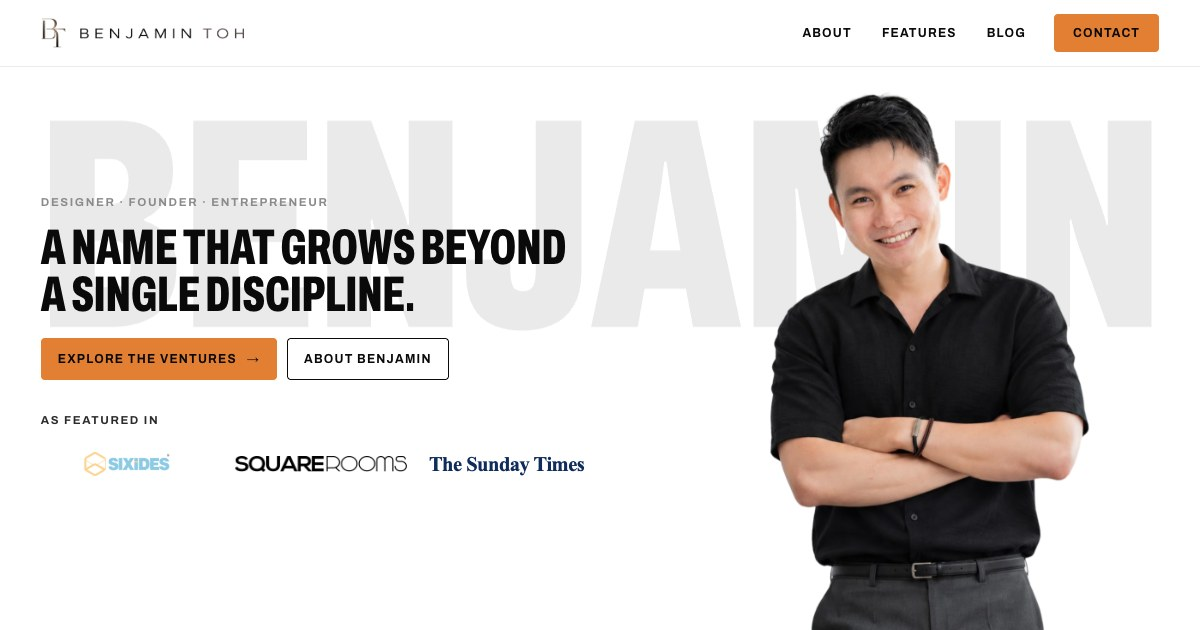
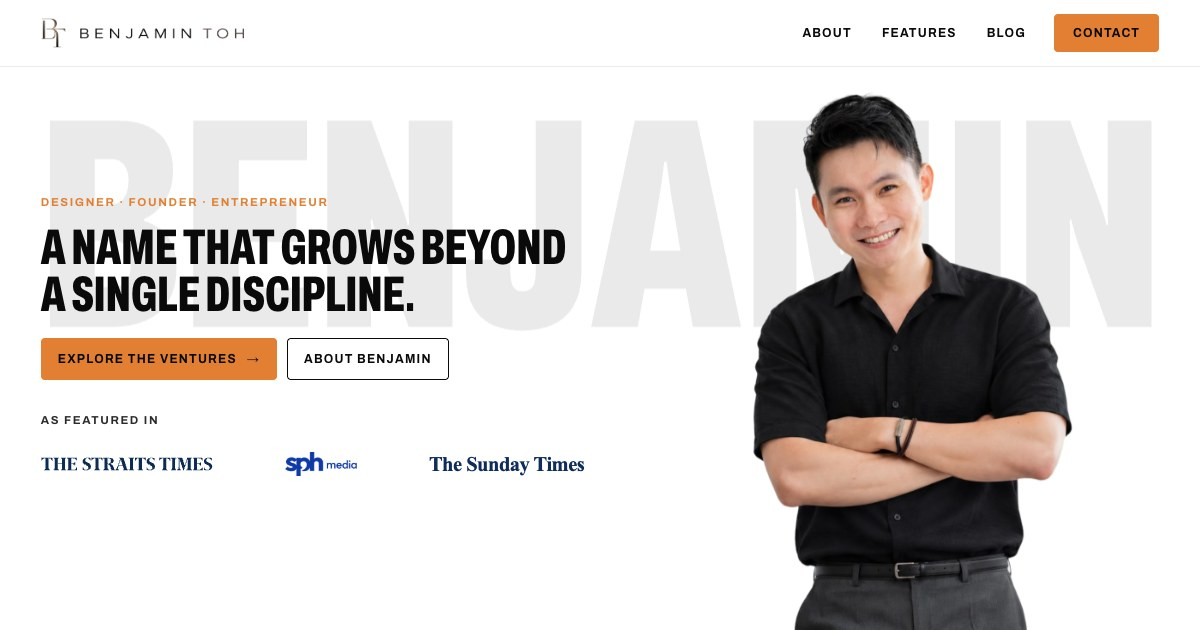
Hero: Ben centred in the space beside the words; Meet Ben photo builds up in tiles, then its frame draws in
- Desktop hero: photo centred between the end of the words and the right edge
- Meet Ben: photo appears as 4x5 tiles from the top left, then the black line draws around it (runs once on scroll)
- Link cover retaken from the new hero, version bumped to ?v=3 so WhatsApp refetches

Changed region(s): [[0.6167, 0.1508, 0.925, 1.0], [0.0308, 0.7238, 0.3392, 0.754], [0.0308, 0.3016, 0.2775, 0.3317]]

diff --git a/v2.css b/v2.css
@@ -949,3 +949,49 @@ a.b--black,button.b--black,.b--black{background:var(--m2d);border-color:var(--m2
 
 /* ventures intro: no single word left alone on the last line */
 .ven__note{text-wrap:pretty}
+
+/* hero (user, 2026-11-20): Ben centred in the white space to the right of the words.
+   The words and logos end about 610px from the left, so his centre sits halfway between there and the right edge.
+   47.7% is where his body's centre falls inside the cut-out (ben-stand.png). */
+@media (min-width:901px){
+  .hero2__ben,.ready .hero2__ben{left:calc(50% + 305px);right:auto;transform:translate(-47.7%,var(--py,0px))}
+}
+
+/* Meet Ben photo (user, 2026-11-20): the photo comes out first (wipes up from the bottom while settling from a slight zoom),
+   then the black line draws itself around it: top, right side, bottom, left side. Runs once when the section scrolls in. */
+.abt__pic[data-rv]{opacity:1;transform:none;transition:none}
+.abt__pic[data-rv] .abt__photo{clip-path:inset(100% 0 0 0);transition:clip-path 1.15s cubic-bezier(.7,0,.2,1)}
+.abt__pic[data-rv] .abt__photo img{transform:scale(1.18);transition:transform 1.6s cubic-bezier(.2,.7,.2,1)}
+.abt__pic[data-rv].in .abt__photo{clip-path:inset(0 0 0 0)}
+.abt__pic[data-rv].in .abt__photo img{transform:none}
+.abt__pic[data-rv].in .abt__photo:hover img{transform:scale(1.03);transition-duration:1.2s}
+.abt__pic[data-rv] .abt__frame{border:0}
+.abt__pic[data-rv] .abt__frame::before,.abt__pic[data-rv] .abt__frame::after{content:"";position:absolute;box-sizing:border-box;width:0;height:0;border:0 solid transparent}
+.abt__pic[data-rv] .abt__frame::before{left:0;top:0;border-top-width:1.5px;border-right-width:1.5px}
+.abt__pic[data-rv] .abt__frame::after{right:0;bottom:0;border-bottom-width:1.5px;border-left-width:1.5px}
+.abt__pic[data-rv].in .abt__frame::before{width:100%;height:100%;border-color:#0a0a0a;
+  transition:width .38s linear 1.0s,height .5s cubic-bezier(.4,0,.2,1) 1.38s,border-color 0s 1.0s}
+.abt__pic[data-rv].in .abt__frame::after{width:100%;height:100%;border-color:#0a0a0a;
+  transition:width .38s linear 1.88s,height .5s cubic-bezier(.4,0,.2,1) 2.26s,border-color 0s 1.88s}
+@media (prefers-reduced-motion:reduce){
+  .abt__pic[data-rv] .abt__photo{clip-path:none;transition:none}.abt__pic[data-rv] .abt__photo img{transform:none;transition:none}
+  .abt__pic[data-rv] .abt__frame::before,.abt__pic[data-rv] .abt__frame::after{width:100%;height:100%;border-color:#0a0a0a;transition:none}
+}
+
+/* Meet Ben photo, take 2 (user, 2026-11-20, matching their reference reel): the photo builds up from square tiles that pop in
+   one after another, starting at the top left and running diagonally to the bottom right. The black line then draws in (above).
+   Tiles are added by v2.js; without JS the photo simply shows. */
+.abt__pic.has-tiles[data-rv] .abt__photo{clip-path:none;transition:none}
+.abt__pic.has-tiles[data-rv] .abt__photo>img{transform:none;opacity:0;transition:none}
+.abt__pic.has-tiles.tiles-done .abt__photo>img{opacity:1}
+.abt__pic.has-tiles.tiles-done .abt__photo:hover>img{transform:scale(1.03);transition:transform 1.2s var(--ease)}
+.abt__tiles{position:absolute;inset:0;z-index:1;display:grid;grid-template-columns:repeat(4,1fr);grid-template-rows:repeat(5,1fr);pointer-events:none}
+.abt__tiles i{position:relative;overflow:hidden;transform:scale(.3);opacity:0;
+  transition:transform .55s cubic-bezier(.2,.75,.25,1) var(--d),opacity .3s ease var(--d)}
+.abt__pic .abt__tiles i img{position:absolute;aspect-ratio:auto;transform:none;opacity:1;transition:none;left:var(--x);top:var(--y);width:400%;height:500%;max-width:none;object-fit:cover}
+.tiles-go .abt__tiles i{transform:none;opacity:1}
+.tiles-done .abt__tiles{display:none}
+/* no grey box before the tiles arrive, and the black line starts as soon as the photo is complete */
+.abt__pic.has-tiles .abt__photo{background:transparent}
+.abt__pic.has-tiles[data-rv].in .abt__frame::before{transition:width .38s linear .6s,height .5s cubic-bezier(.4,0,.2,1) .98s,border-color 0s .6s}
+.abt__pic.has-tiles[data-rv].in .abt__frame::after{transition:width .38s linear 1.48s,height .5s cubic-bezier(.4,0,.2,1) 1.86s,border-color 0s 1.48s}

diff --git a/blog.html b/blog.html
@@ -11,11 +11,11 @@
 <meta property="og:site_name" content="Benjamin Toh">
 <meta property="og:title" content="Blog: renovation, explained honestly">
 <meta property="og:description" content="Articles and project stories by Benjamin Toh on hiring a designer or contractor, custom carpentry, small homes and completed M2D homes in Singapore.">
-<meta property="og:image" content="https://www.benjamintoh.com/assets/og-cover.jpg?v=2">
+<meta property="og:image" content="https://www.benjamintoh.com/assets/og-cover.jpg?v=3">
 <meta property="og:image:width" content="1200">
 <meta property="og:image:height" content="630">
 <meta name="twitter:card" content="summary_large_image">
-<meta name="twitter:image" content="https://www.benjamintoh.com/assets/og-cover.jpg?v=2">
+<meta name="twitter:image" content="https://www.benjamintoh.com/assets/og-cover.jpg?v=3">
 <meta property="og:type" content="website">
 <script type="application/ld+json">{"@context": "https://schema.org", "@type": "Blog", "name": "Benjamin Toh: Blog", "description": "Articles and project stories by Benjamin Toh on hiring a designer or contractor, custom carpentry, small homes and completed M2D homes in Singapore.", "inLanguage": "en-SG", "author": {"@type": "Person", "name": "Benjamin Toh"}}</script>
 <link rel="icon" href="assets/favicon.png">

diff --git a/v2.js b/v2.js
@@ -385,3 +385,22 @@
     c.addEventListener('mouseleave',()=>v.pause());
   });
 })();
+
+/* ---------- Meet Ben photo: builds up from tiles, top left first (user, 2026-11-20) ---------- */
+(function(){
+  const pic=document.querySelector('.abt__pic'), fig=pic&&pic.querySelector('.abt__photo'), img=fig&&fig.querySelector('img');
+  if(!img||matchMedia('(prefers-reduced-motion: reduce)').matches) return;
+  const C=4, R=5, grid=document.createElement('div');
+  grid.className='abt__tiles'; grid.setAttribute('aria-hidden','true');
+  for(let r=0;r<R;r++) for(let c=0;c<C;c++){
+    const t=document.createElement('i'), p=document.createElement('img');
+    p.alt=''; p.src=img.currentSrc||img.src;
+    t.style.setProperty('--d',((r+c)*0.075).toFixed(3)+'s');
+    p.style.setProperty('--x',(-c*100)+'%'); p.style.setProperty('--y',(-r*100)+'%');
+    t.appendChild(p); grid.appendChild(t);
+  }
+  fig.appendChild(grid); pic.classList.add('has-tiles');
+  const go=()=>{ requestAnimationFrame(()=>pic.classList.add('tiles-go')); setTimeout(()=>pic.classList.add('tiles-done'),1500); };
+  if(pic.classList.contains('in')) go();
+  else new MutationObserver((m,o)=>{ if(pic.classList.contains('in')){ o.disconnect(); go(); } }).observe(pic,{attributes:true,attributeFilter:['class']});
+})();

diff --git a/index.html b/index.html
@@ -11,12 +11,12 @@
 <meta property="og:title" content="Benjamin Toh | Designer, Founder, Entrepreneur">
 <meta property="og:description" content="Benjamin Toh, interior designer, founder of M2D Interior Design and second-generation carpenter in Singapore.">
 <meta property="og:url" content="https://www.benjamintoh.com/">
-<meta property="og:image" content="https://www.benjamintoh.com/assets/og-cover.jpg?v=2">
+<meta property="og:image" content="https://www.benjamintoh.com/assets/og-cover.jpg?v=3">
 <meta property="og:image:width" content="1200">
 <meta property="og:image:height" content="630">
 <meta property="og:image:alt" content="Benjamin Toh, designer, founder and entrepreneur">
 <meta name="twitter:card" content="summary_large_image">
-<meta name="twitter:image" content="https://www.benjamintoh.com/assets/og-cover.jpg?v=2">
+<meta name="twitter:image" content="https://www.benjamintoh.com/assets/og-cover.jpg?v=3">
 <link rel="icon" href="assets/favicon.png">
 <link rel="preconnect" href="https://fonts.googleapis.com">
 <link rel="preconnect" href="https://fonts.gstatic.com" crossorigin>

diff --git a/about.html b/about.html
@@ -11,12 +11,12 @@
 <meta property="og:title" content="About | Benjamin Toh">
 <meta property="og:description" content="About Benjamin Toh: interior designer, founder of M2D Interior Design and second-generation carpenter in Singapore.">
 <meta property="og:url" content="https://www.benjamintoh.com/about">
-<meta property="og:image" content="https://www.benjamintoh.com/assets/og-cover.jpg?v=2">
+<meta property="og:image" content="https://www.benjamintoh.com/assets/og-cover.jpg?v=3">
 <meta property="og:image:width" content="1200">
 <meta property="og:image:height" content="630">
 <meta property="og:image:alt" content="Benjamin Toh, designer, founder and entrepreneur">
 <meta name="twitter:card" content="summary_large_image">
-<meta name="twitter:image" content="https://www.benjamintoh.com/assets/og-cover.jpg?v=2">
+<meta name="twitter:image" content="https://www.benjamintoh.com/assets/og-cover.jpg?v=3">
 <link rel="icon" href="assets/favicon.png">
 <link rel="preconnect" href="https://fonts.googleapis.com">
 <link rel="preconnect" href="https://fonts.gstatic.com" crossorigin>

diff --git a/features.html b/features.html
@@ -11,12 +11,12 @@
 <meta property="og:title" content="Features | Benjamin Toh">
 <meta property="og:description" content="Media features and awards: Benjamin Toh in print, on air and on screen.">
 <meta property="og:url" content="https://www.benjamintoh.com/features">
-<meta property="og:image" content="https://www.benjamintoh.com/assets/og-cover.jpg?v=2">
+<meta property="og:image" content="https://www.benjamintoh.com/assets/og-cover.jpg?v=3">
 <meta property="og:image:width" content="1200">
 <meta property="og:image:height" content="630">
 <meta property="og:image:alt" content="Benjamin Toh, designer, founder and entrepreneur">
 <meta name="twitter:card" content="summary_large_image">
-<meta name="twitter:image" content="https://www.benjamintoh.com/assets/og-cover.jpg?v=2">
+<meta name="twitter:image" content="https://www.benjamintoh.com/assets/og-cover.jpg?v=3">
 <link rel="icon" href="assets/favicon.png">
 <link rel="preconnect" href="https://fonts.googleapis.com">
 <link rel="preconnect" href="https://fonts.gstatic.com" crossorigin>

diff --git a/contact.html b/contact.html
@@ -11,12 +11,12 @@
 <meta property="og:title" content="Contact | Benjamin Toh">
 <meta property="og:description" content="Contact Benjamin Toh: email, social, office address and a message form.">
 <meta property="og:url" content="https://www.benjamintoh.com/contact">
-<meta property="og:image" content="https://www.benjamintoh.com/assets/og-cover.jpg?v=2">
+<meta property="og:image" content="https://www.benjamintoh.com/assets/og-cover.jpg?v=3">
 <meta property="og:image:width" content="1200">
 <meta property="og:image:height" content="630">
 <meta property="og:image:alt" content="Benjamin Toh, designer, founder and entrepreneur">
 <meta name="twitter:card" content="summary_large_image">
-<meta name="twitter:image" content="https://www.benjamintoh.com/assets/og-cover.jpg?v=2">
+<meta name="twitter:image" content="https://www.benjamintoh.com/assets/og-cover.jpg?v=3">
 <link rel="icon" href="assets/favicon.png">
 <link rel="preconnect" href="https://fonts.googleapis.com">
 <link rel="preconnect" href="https://fonts.gstatic.com" crossorigin>
